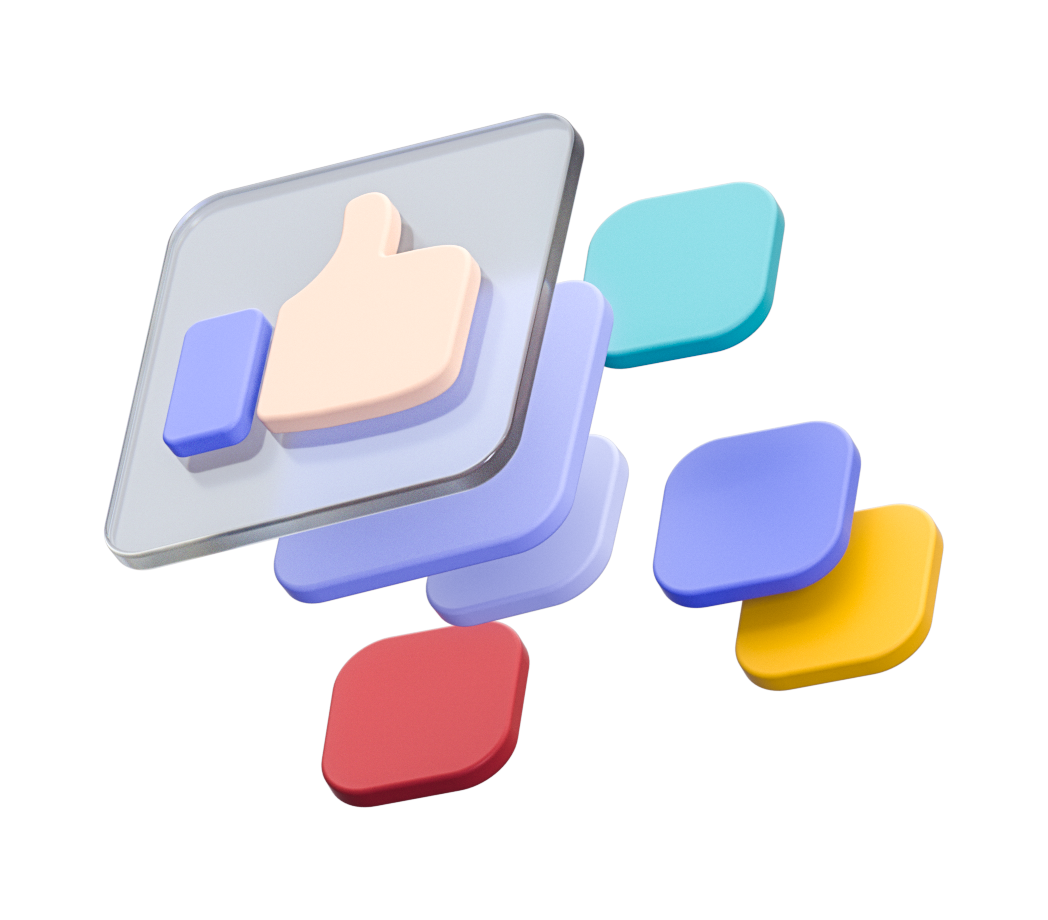
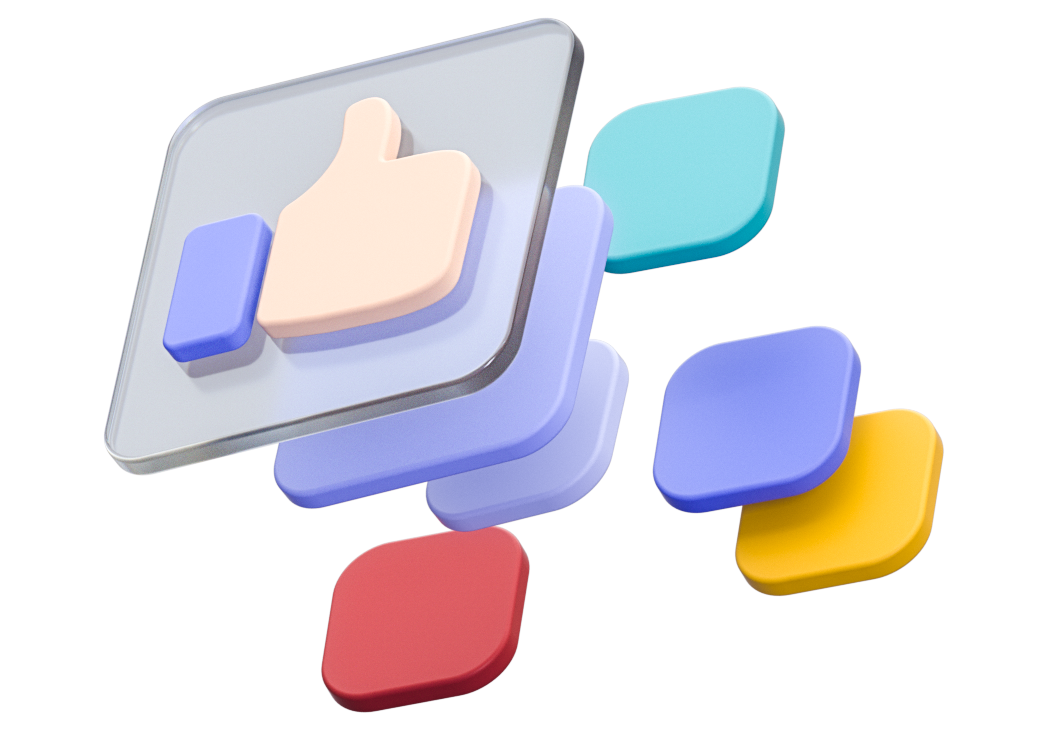
SSP/DSP 상단 베너 수정중

Changed region(s): [[0.1221, 0.0301, 0.7634, 0.5123], [0.0916, 0.4521, 0.916, 0.9945], [0.6718, 0.4219, 0.8244, 0.4822]]

diff --git a/dsp.html b/dsp.html
@@ -64,8 +64,8 @@
     <section class="mt-70">
       <div class="container feature-banner">
         <div class="row align-items-center justify-content-center">
-          <div class="col-12 col-md-4">
-            <img src="/exelbid-homepage/asset/dsp/dsp_main.png" class="mw-120 mw-sm-100">
+          <div class="col-12 col-md-4 py-60 py-sm-0 mb-sm-40">
+            <img src="/exelbid-homepage/asset/dsp/dsp_main_.png" class="mw-120 mw-sm-100">
           </div>
           <div class="col-12 col-lg-5 col-md-4 offset-lg-1 offset-md-1 text-md-center">
             <h5 class="fw-semibold text-white mb-10">액셀비드의 SSP</h5>
